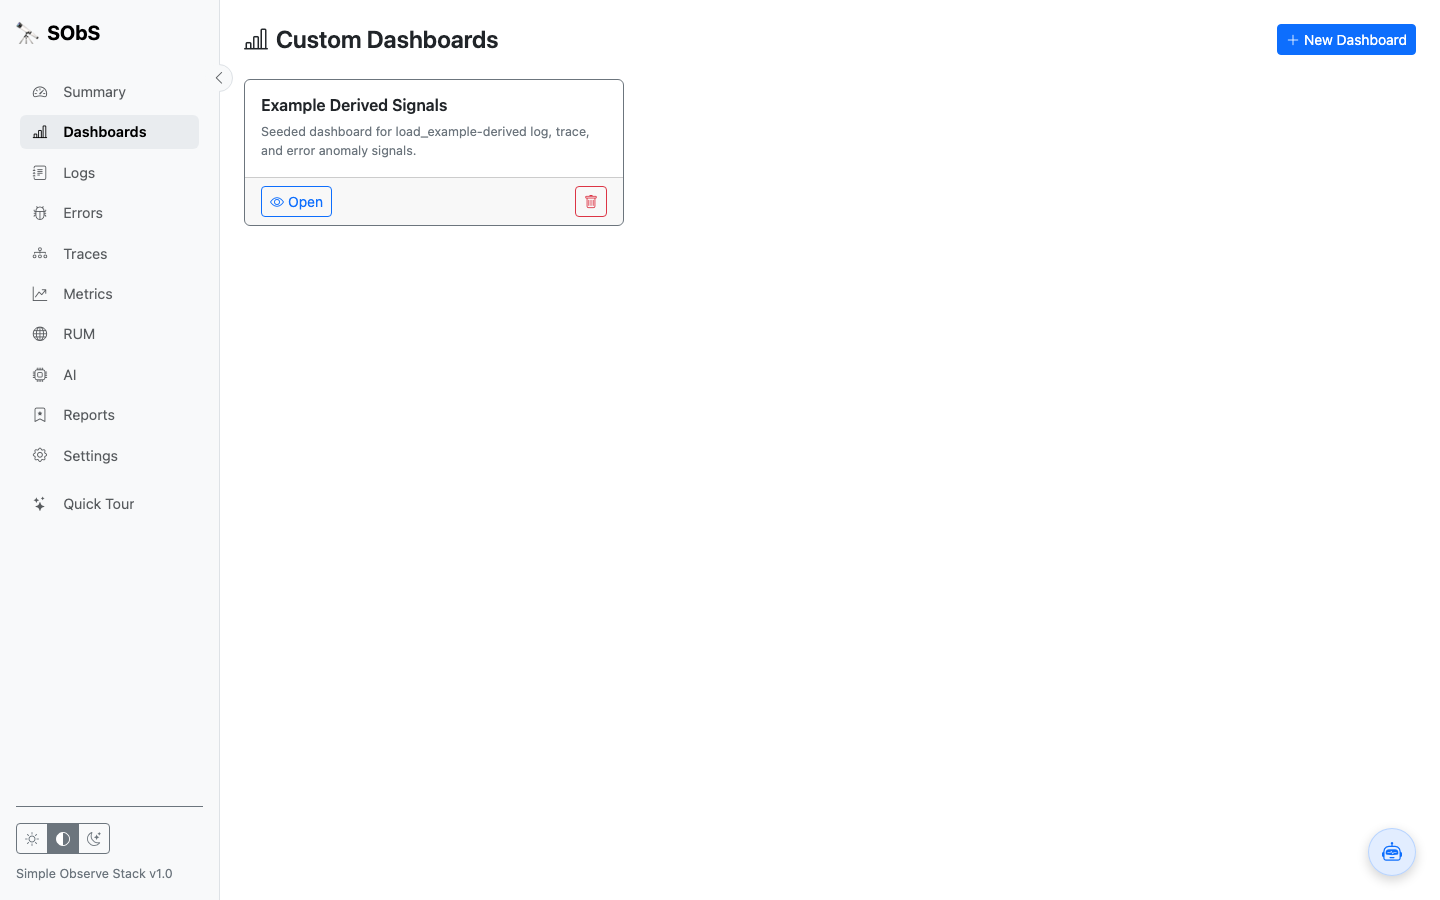
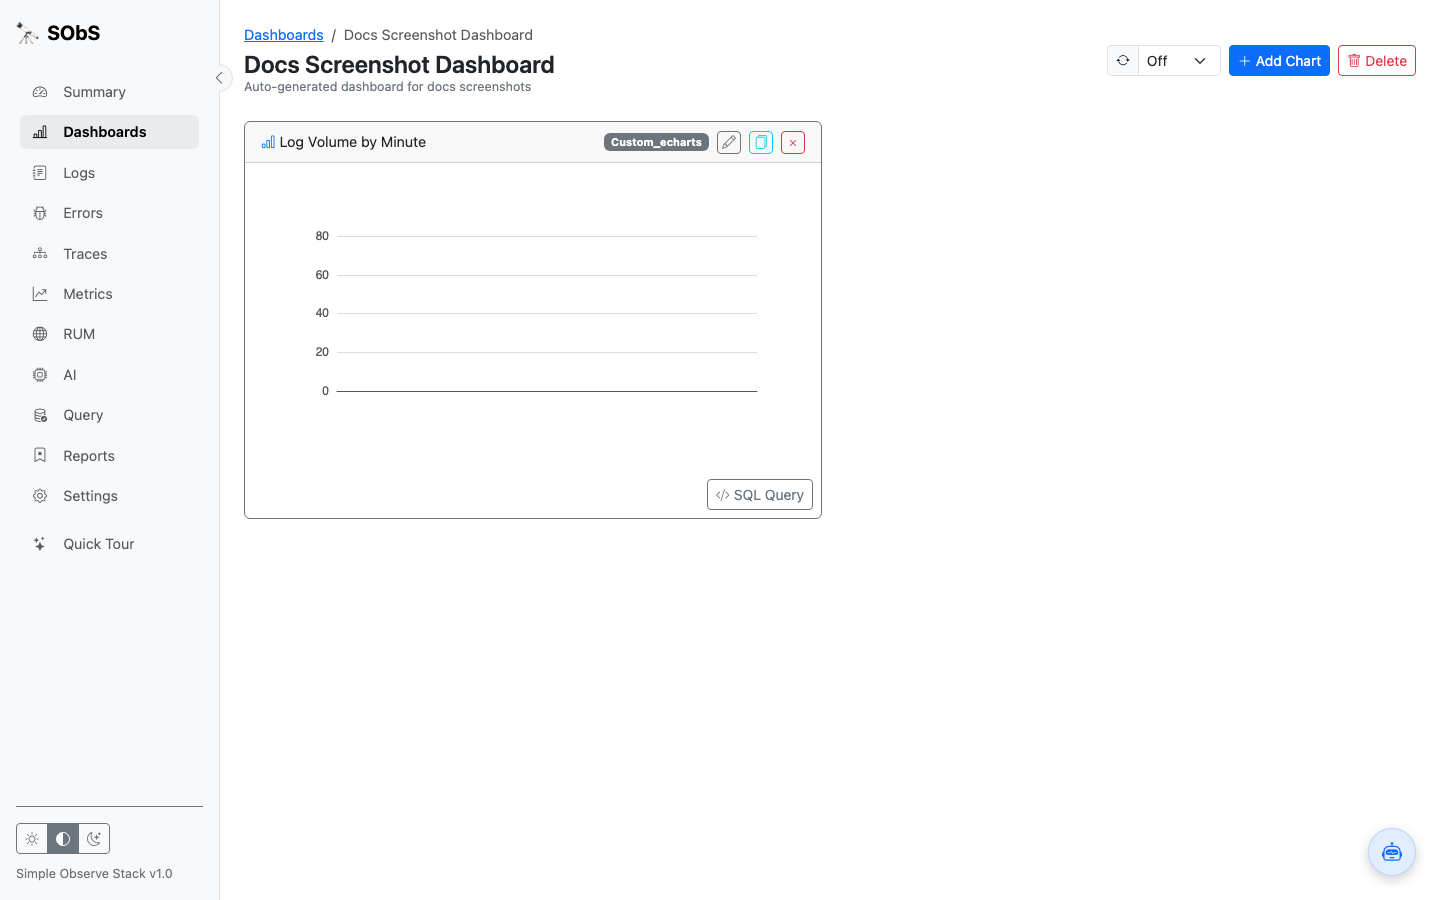
docs: seed screenshot data and capture custom dashboard chart view

diff --git a/tests/test_integration.py b/tests/test_integration.py
@@ -14,7 +14,9 @@ Run as part of the full suite (unit tests excluded from integration marker):
     pytest tests/test_integration.py -v     # integration tests only
 """
 
+import json
 import os
+import re
 import subprocess
 import sys
 import tempfile
@@ -498,10 +500,28 @@ class TestDataVisibleInUI:
 class TestScreenshots:
     """Capture full-page screenshots of every UI view for visual regression."""
 
-    def _screenshot(self, page: Page, filename: str, url: str) -> None:
-        page.goto(url)
-        page.wait_for_load_state("networkidle")
-        # Safety net: keep docs screenshots clean even if tour config regresses.
+    @pytest.fixture(scope="class", autouse=True)
+    def _seed_screenshot_data(self, live_server):
+        """Pump realistic sample traffic so screenshots show populated views."""
+        repo_root = os.path.abspath(os.path.join(os.path.dirname(__file__), ".."))
+        subprocess.run(
+            [
+                sys.executable,
+                "scripts/load_example.py",
+                "--base",
+                live_server,
+                "--total",
+                "240",
+                "--workers",
+                "24",
+            ],
+            cwd=repo_root,
+            check=True,
+            stdout=subprocess.DEVNULL,
+            stderr=subprocess.DEVNULL,
+        )
+
+    def _dismiss_tour_modal(self, page: Page) -> None:
         page.evaluate("""
             () => {
                 try {
@@ -527,6 +547,73 @@ class TestScreenshots:
                 if (backdrop) backdrop.remove();
             }
             """)
+
+    def _create_docs_dashboard(self, live_server: str) -> str:
+        """Create a dashboard with one rendered chart and return the dashboard URL."""
+        create_resp = requests.post(
+            f"{live_server}/dashboards",
+            data={
+                "name": "Docs Screenshot Dashboard",
+                "description": "Auto-generated dashboard for docs screenshots",
+            },
+            allow_redirects=False,
+            timeout=10,
+        )
+        assert create_resp.status_code in (302, 303)
+
+        location = create_resp.headers.get("Location", "")
+        match = re.search(r"/dashboards/([^/?#]+)", location)
+        assert match is not None
+        dashboard_id = match.group(1)
+
+        chart_spec = {
+            "template_id": "custom_echarts",
+            "sql": {
+                "mode": "raw",
+                "override_sql": (
+                    "SELECT toStartOfMinute(TimestampTime) AS time, count() AS value "
+                    "FROM otel_logs GROUP BY time ORDER BY time LIMIT 120"
+                ),
+            },
+            "visual": {
+                "custom_mapping_json": json.dumps({"points": {"from": "rows"}}, ensure_ascii=False),
+                "custom_option_json": json.dumps(
+                    {
+                        "tooltip": {"trigger": "axis"},
+                        "xAxis": {"type": "time"},
+                        "yAxis": {"type": "value"},
+                        "series": [
+                            {
+                                "name": "Logs/min",
+                                "type": "line",
+                                "data": "{{points}}",
+                                "showSymbol": False,
+                                "smooth": True,
+                            }
+                        ],
+                    },
+                    ensure_ascii=False,
+                ),
+            },
+        }
+
+        add_resp = requests.post(
+            f"{live_server}/dashboards/{dashboard_id}/charts",
+            data={
+                "title": "Log Volume by Minute",
+                "chart_spec_json": json.dumps(chart_spec, ensure_ascii=False),
+            },
+            allow_redirects=False,
+            timeout=10,
+        )
+        assert add_resp.status_code in (302, 303)
+
+        return f"{live_server}/dashboards/{dashboard_id}"
+
+    def _screenshot(self, page: Page, filename: str, url: str) -> None:
+        page.goto(url)
+        page.wait_for_load_state("networkidle")
+        self._dismiss_tour_modal(page)
         os.makedirs(SCREENSHOTS_DIR, exist_ok=True)
         page.screenshot(path=os.path.join(SCREENSHOTS_DIR, filename), full_page=True)
 
@@ -555,8 +642,10 @@ class TestScreenshots:
         expect(page.get_by_role("heading", name="AI Transparency")).to_be_visible()
 
     def test_screenshot_dashboards(self, page: Page, live_server):
-        self._screenshot(page, "dashboard.png", f"{live_server}/dashboards")
-        expect(page.get_by_role("heading", name="Custom Dashboards")).to_be_visible()
+        dashboard_url = self._create_docs_dashboard(live_server)
+        self._screenshot(page, "dashboard.png", dashboard_url)
+        page.wait_for_selector("[id^='chart-'] canvas", timeout=10000)
+        expect(page.get_by_text("Log Volume by Minute")).to_be_visible()
 
     def test_screenshot_query(self, page: Page, live_server):
         self._screenshot(page, "query.png", f"{live_server}/query")

diff --git a/README.md b/README.md
@@ -476,9 +476,9 @@ The script starts local port-forwards for LLM, embeddings, and DLP, exports `SOB
 
 ## Screenshots
 
-| Dashboards | Query | Logs |
-|---|---|---|
-| ![Dashboards](static/help/dashboard.png) | ![Query](static/help/query.png) | ![Logs](static/help/logs.png) |
+| Summary | Custom Dashboard | Query | Logs |
+|---|---|---|---|
+| ![Summary](static/help/summary.png) | ![Custom Dashboard](static/help/dashboard.png) | ![Query](static/help/query.png) | ![Logs](static/help/logs.png) |
 
 ## Running Tests
 

diff --git a/CONTRIBUTING.md b/CONTRIBUTING.md
@@ -62,4 +62,5 @@ cp tests/screenshots/dashboard.png static/help/dashboard.png
 cp tests/screenshots/logs.png static/help/logs.png
 cp tests/screenshots/traces.png static/help/traces.png
 cp tests/screenshots/query.png static/help/query.png
+cp tests/screenshots/summary.png static/help/summary.png
 ```
